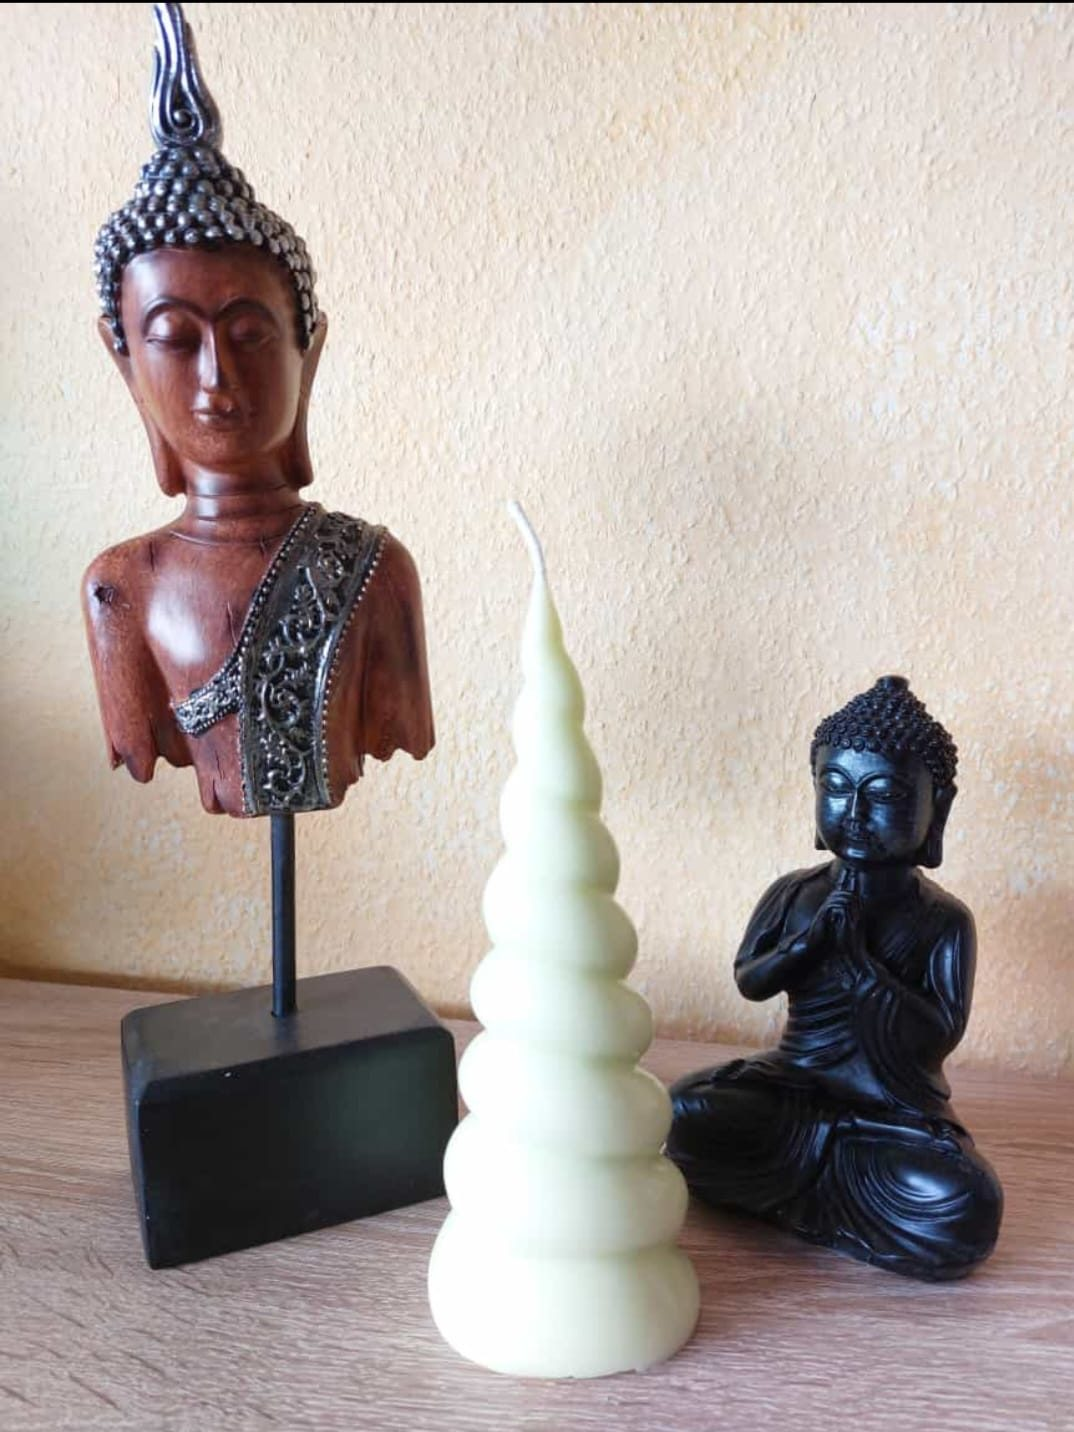
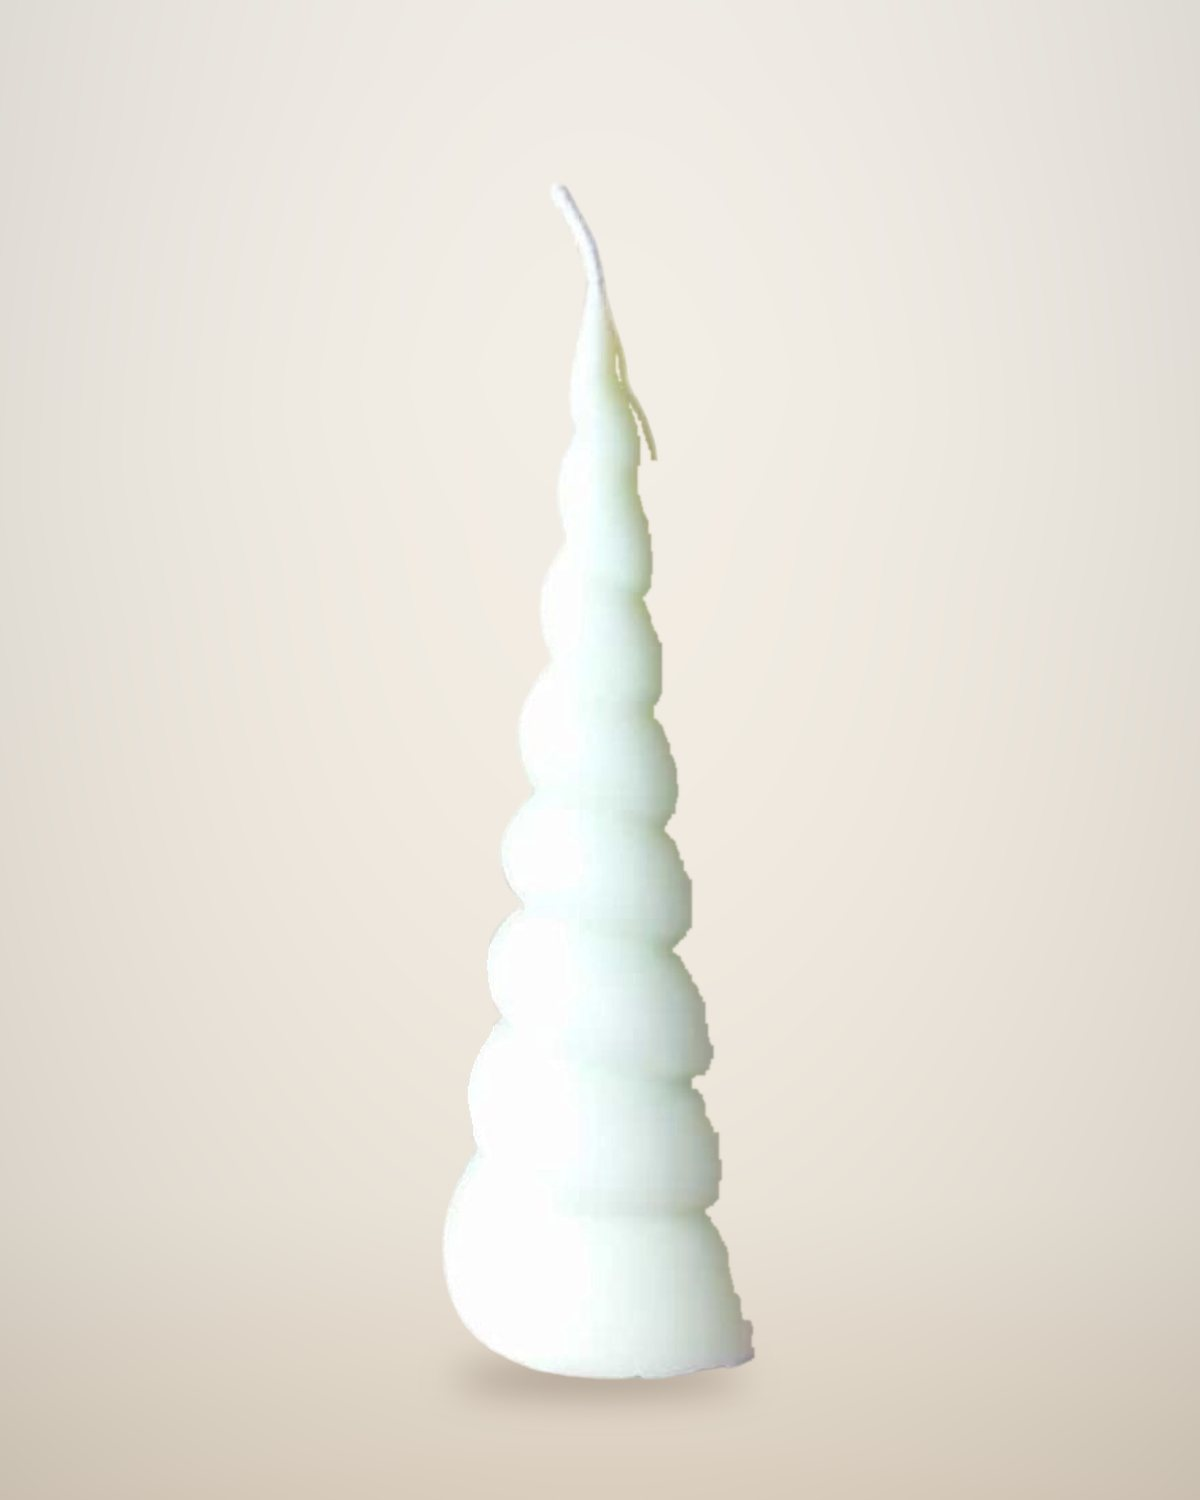
Galerie-Bilder aufwerten und aussortieren
- Kommunionkerzen (Leon, Ellie), Herz-Kerze und Spiralkerze mit Magnific
  freigestellt und vor einheitlichen Creme-Hintergrund gesetzt
- Fünf schwache bzw. doppelte Deko-Bilder entfernt
- Reihenfolge der Galerie angepasst

diff --git a/galerie/bilder.js b/galerie/bilder.js
@@ -25,9 +25,9 @@ window.GALERIE = [
 
     // Kommunion & Konfirmation
     { datei: "/galerie/bilder/kommunionkerze-rosen-blau.jpg",         anlass: "kommunion",  titel: "Kommunionkerze mit blauen Rosen und Strasskreuz" },
+    { datei: "/galerie/bilder/kommunionkerze-holy-communion.jpg",     anlass: "kommunion",  titel: "Kommunionkerze „Holy Communion“ in Rosa und Lila" },
     { datei: "/galerie/bilder/kommunionkerze-gruen-kelch-fische.jpg", anlass: "kommunion",  titel: "Kommunionkerze in Grün mit Kelch, Alpha & Omega und Fischen" },
     { datei: "/galerie/bilder/kommunionkerze-regenbogen-kreuz.jpg",   anlass: "kommunion",  titel: "Kommunionkerze mit Regenbogenkreuz und Fischband" },
-    { datei: "/galerie/bilder/kommunionkerze-holy-communion.jpg",     anlass: "kommunion",  titel: "Kommunionkerze „Holy Communion“ in Rosa und Lila" },
 
     // Geburtstag & Jubiläum
     { datei: "/galerie/bilder/geburtstagskerzen-jubilaeum.jpg",       anlass: "geburtstag", titel: "Geburtstagskerzen zum 60., 77., 80. und 84." },
@@ -35,20 +35,15 @@ window.GALERIE = [
     // Deko- & Formkerzen
     { datei: "/galerie/bilder/kerze-herz-haende.jpg",                 anlass: "deko",       titel: "Kerze „Herz in Händen“ – handmade with love" },
     { datei: "/galerie/bilder/windlicht-gepresste-blueten.jpg",       anlass: "deko",       titel: "Windlicht aus Wachs mit gepressten Blüten" },
+    { datei: "/galerie/bilder/formkerze-spirale.jpg",                 anlass: "deko",       titel: "Spiralkerze in Creme" },
     { datei: "/galerie/bilder/formkerzen-creme-gedreht.jpg",          anlass: "deko",       titel: "Formkerzen in Creme – gedreht, geflochten, gewellt" },
     { datei: "/galerie/bilder/formkerzen-pink.jpg",                   anlass: "deko",       titel: "Formkerzen in Pink" },
     { datei: "/galerie/bilder/kugelkerzen-blau-pyramide.jpg",         anlass: "deko",       titel: "Kugelkerzen und Pyramide in Blau-Weiß" },
     { datei: "/galerie/bilder/schichtkerzen-tuerkis-gruen.jpg",       anlass: "deko",       titel: "Schichtkerzen in Türkis und Grün" },
     { datei: "/galerie/bilder/perlenkerzen-rot-weiss.jpg",            anlass: "deko",       titel: "Perlenkerzen in Rot, Weiß und Anthrazit" },
-    { datei: "/galerie/bilder/formkerze-spirale.jpg",                 anlass: "deko",       titel: "Spiralkerze in Creme" },
-    { datei: "/galerie/bilder/formkerzen-kugel-pyramide-bunt.jpg",    anlass: "deko",       titel: "Kugel- und Pyramidenkerzen" },
     { datei: "/galerie/bilder/kerzen-petrol-kugel-sechseck.jpg",      anlass: "deko",       titel: "Kerzen in Petrol – Kugel und Sechseck" },
     { datei: "/galerie/bilder/sechseckkerze-blau-weiss.jpg",          anlass: "deko",       titel: "Sechseckkerze in Blau-Weiß" },
-    { datei: "/galerie/bilder/kugelkerzen-dekoschale.jpg",            anlass: "deko",       titel: "Kugelkerzen in der Dekoschale" },
-    { datei: "/galerie/bilder/muschelkerze-pink.jpg",                 anlass: "deko",       titel: "Muschelkerze in Pink" },
-    { datei: "/galerie/bilder/formkerzen-weiss.jpg",                  anlass: "deko",       titel: "Formkerzen in Weiß" },
     { datei: "/galerie/bilder/formkerzen-weiss-kugel-blau.jpg",       anlass: "deko",       titel: "Weiße Formkerzen mit blauer Kugelkerze" },
-    { datei: "/galerie/bilder/kerze-herz-haende-satin.jpg",           anlass: "deko",       titel: "Kerze „Herz in Händen“ auf Satin" },
 
     // Duft & Keramik
     { datei: "/galerie/bilder/duftwachsmelts-duftlampe.jpg",          anlass: "duft",       titel: "Duftwachsmelts mit Duftlampe" },
